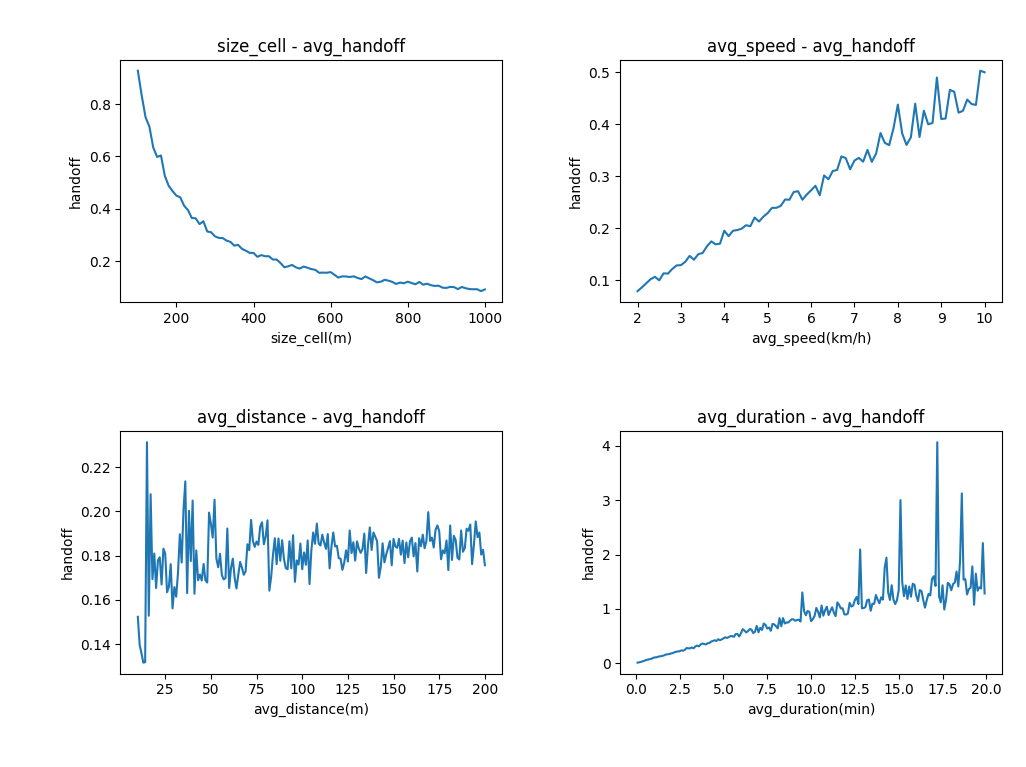
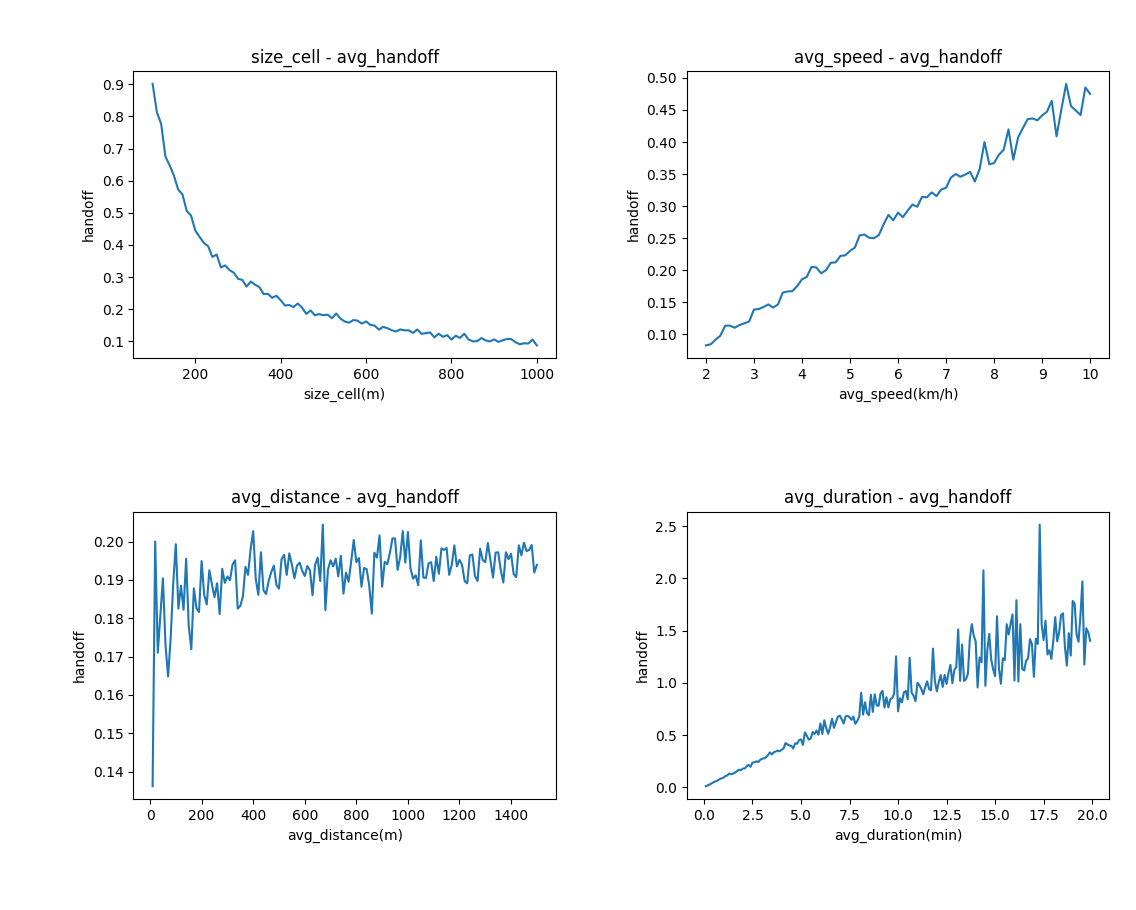
edit range of average distance

diff --git a/main.c b/main.c
@@ -61,7 +61,7 @@ int main(int argc, char *argv[])
 
     fp = fopen("data_d.txt", "w");
     fprintf(fp, "avg_distance,handoff\n");;
-    for (double i = 10; i <= 200; i += 1) 
+    for (double i = 10; i <= 1500; i += 10) 
         run(fp, 'd', i);
     fclose(fp);
 
